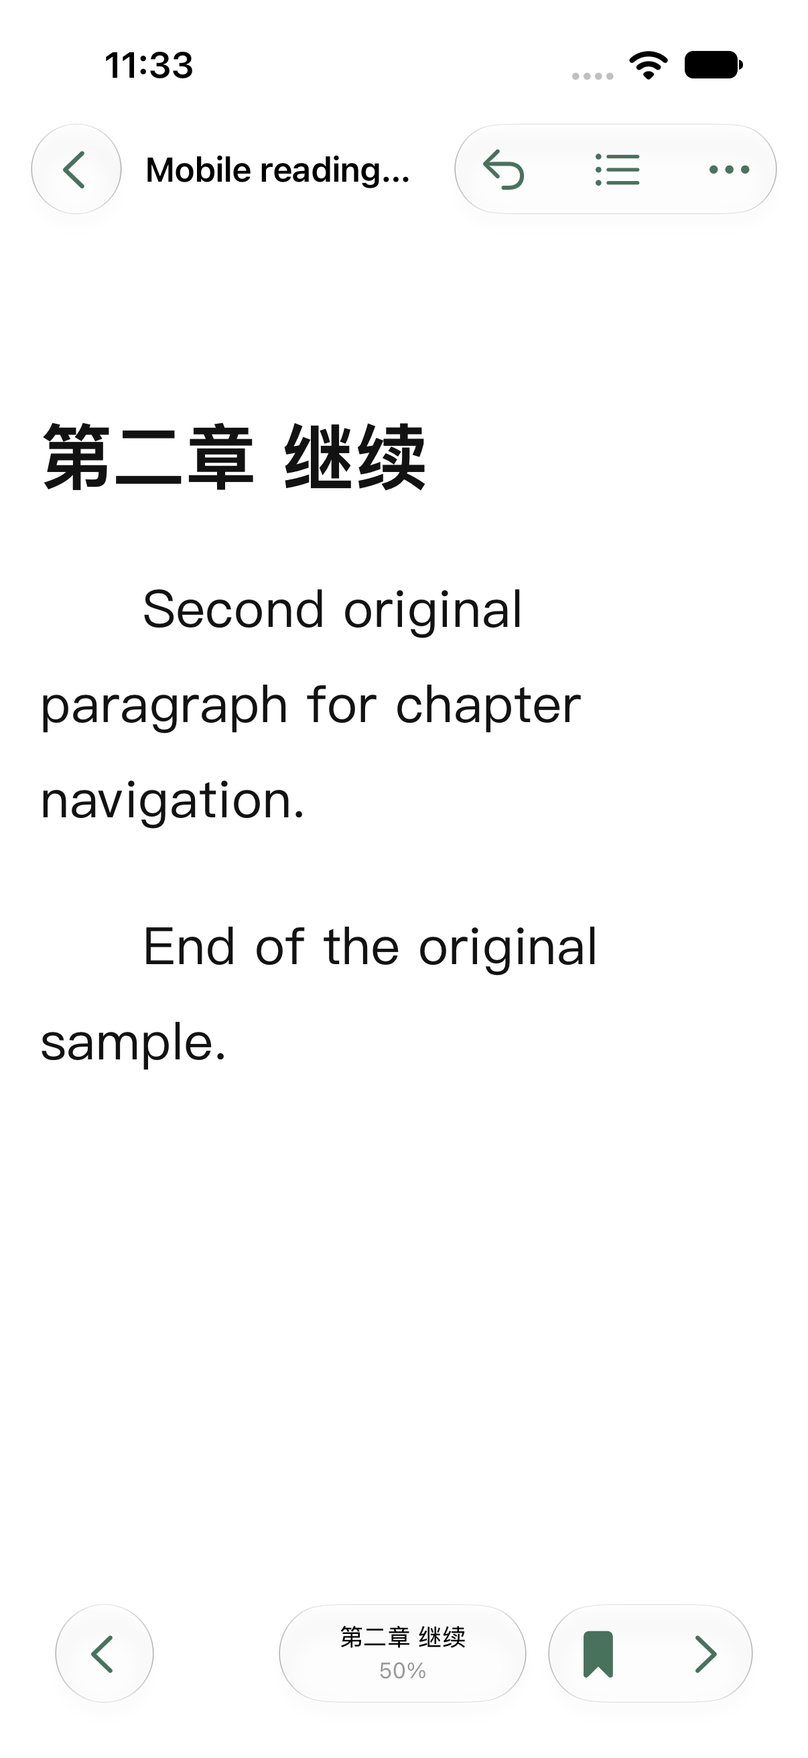
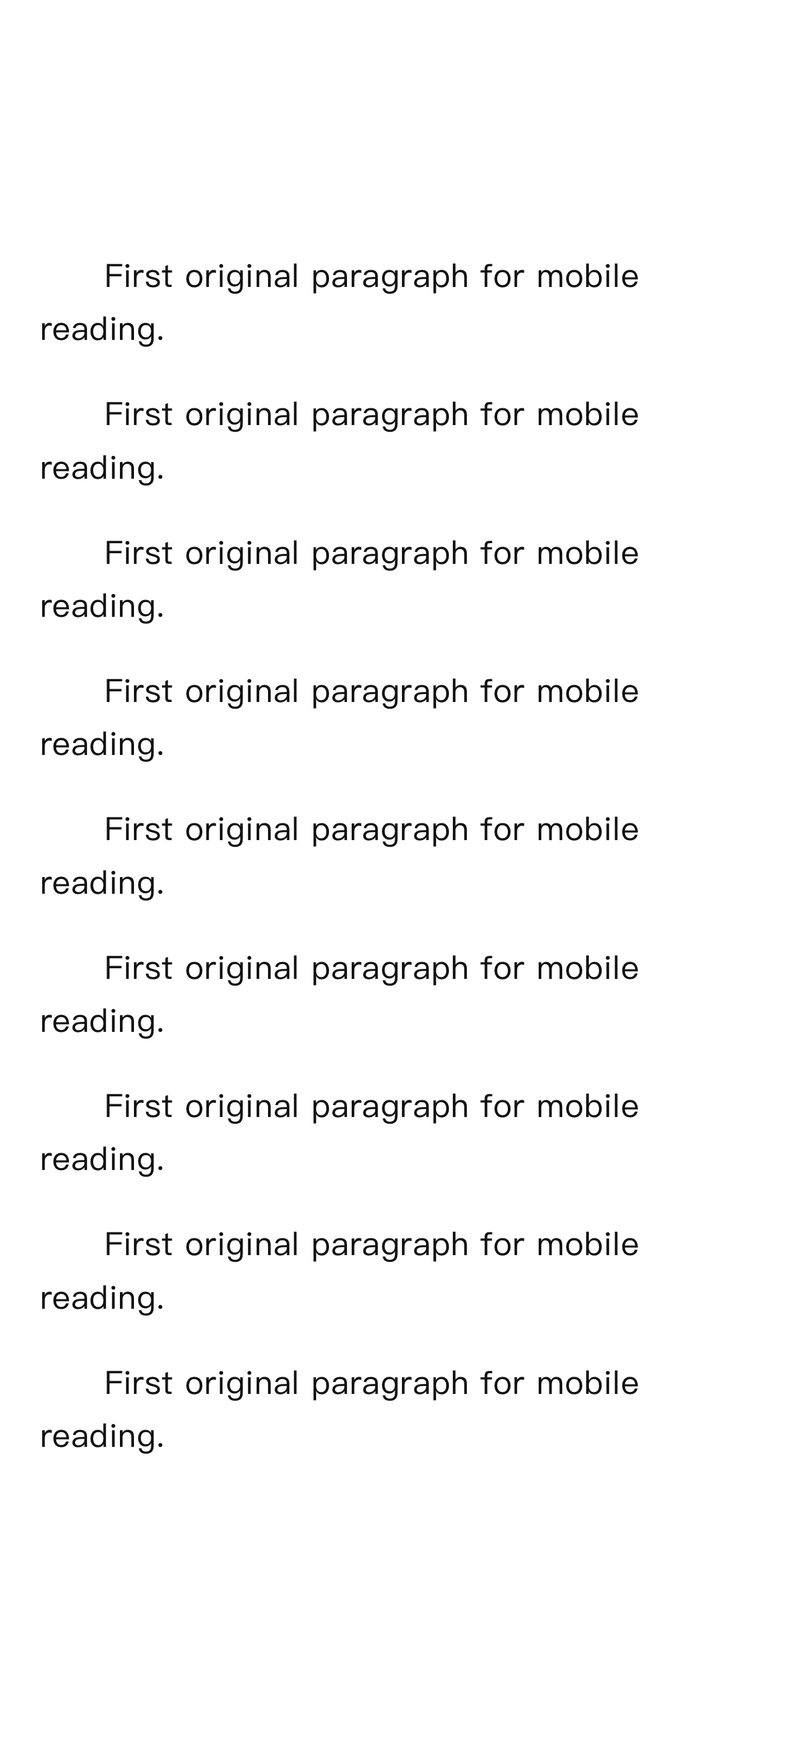
Improve iPhone immersive reading, appearance controls and chapter navigation

diff --git a/ios/PageBetween/App/ReaderScreen.swift b/ios/PageBetween/App/ReaderScreen.swift
@@ -27,7 +27,9 @@ struct AssistantSelection: Identifiable {
     @Published var scroll = false
     @Published var theme = "paper"
     @Published var history: [Locator] = []
-    @Published var chromeVisible = true
+    @Published var chromeVisible = false
+    @Published var lineHeight = 1.85
+    @Published var pageMargins = 1.0
     @Published var bookmarked = false
     var navigator: Navigator?
     let store: LibraryStore
@@ -44,6 +46,8 @@ struct AssistantSelection: Identifiable {
         super.init()
         let defaults = UserDefaults.standard
         fontScale = defaults.object(forKey: "reading.fontScale") == nil ? 100 : min(200, max(70, defaults.double(forKey: "reading.fontScale")))
+        if let value = defaults.object(forKey: "reading.lineHeight") as? Double, value.isFinite { lineHeight = min(2.2, max(1.4, value)) }
+        if let value = defaults.object(forKey: "reading.pageMargins") as? Double, value.isFinite { pageMargins = min(2, max(0.5, value)) }
         fontFamily = defaults.string(forKey: "reading.fontFamily") ?? ""
         theme = defaults.string(forKey: "reading.theme") ?? "paper"
         let key = book.format == "pdf" ? "reading.pdfScroll" : "reading.textScroll"
@@ -100,10 +104,11 @@ struct AssistantSelection: Identifiable {
     }
     private var hasContentSelection: Bool { (navigator as? SelectableNavigator)?.currentSelection != nil || (navigator as? MobilePDFNavigator)?.hasSelection == true }
     private func preferences() -> EPUBPreferences {
-        EPUBPreferences(columnCount: .one, fontFamily: fontFamily.isEmpty ? nil : FontFamily(rawValue: fontFamily), fontSize: fontScale / 100, lineHeight: 1.85, pageMargins: 1.0, publisherStyles: fontFamily.isEmpty, scroll: scroll, theme: theme == "night" ? .dark : theme == "sepia" ? .sepia : .light)
+        EPUBPreferences(columnCount: .one, fontFamily: fontFamily.isEmpty ? nil : FontFamily(rawValue: fontFamily), fontSize: fontScale / 100, lineHeight: lineHeight, pageMargins: pageMargins, publisherStyles: fontFamily.isEmpty && lineHeight == 1.85 && pageMargins == 1, scroll: scroll, theme: theme == "night" ? .dark : theme == "sepia" ? .sepia : .light)
     }
     func apply() {
         let defaults = UserDefaults.standard
+        defaults.set(lineHeight, forKey: "reading.lineHeight"); defaults.set(pageMargins, forKey: "reading.pageMargins")
         defaults.set(fontScale, forKey: "reading.fontScale"); defaults.set(fontFamily, forKey: "reading.fontFamily"); defaults.set(theme, forKey: "reading.theme"); defaults.set(scroll, forKey: book.format == "pdf" ? "reading.pdfScroll" : "reading.textScroll")
         (navigator as? EPUBNavigatorViewController)?.submitPreferences(preferences())
         (navigator as? MobilePDFNavigator)?.applyScroll(scroll)
@@ -262,6 +267,7 @@ struct ReaderScreen: View {
     @State private var toc = false
     @State private var appearance = false
     @State private var bookmarkTab = false
+    @State private var chapterQuery = ""
     @State private var conversations = false
     @State private var processing = false
     init(book: MobileBook, store: LibraryStore) { _reader = StateObject(wrappedValue: MobileReader(book: book, store: store)) }
@@ -273,15 +279,14 @@ struct ReaderScreen: View {
                 else { ProgressView("正在打开书籍…") }
             }
             .navigationTitle(reader.book.title).navigationBarTitleDisplayMode(.inline)
-            .toolbar(reader.chromeVisible ? .visible : .hidden, for: .navigationBar, .bottomBar)
-            .statusBarHidden(!reader.chromeVisible)
+            .toolbar(reader.chromeVisible || reader.controller == nil || reader.failure != nil ? .visible : .hidden, for: .navigationBar, .bottomBar)
+            .statusBarHidden(!reader.chromeVisible && reader.controller != nil && reader.failure == nil)
             .toolbar {
                 ToolbarItem(placement: .topBarLeading) { Button("书库", systemImage: "chevron.left") { Task { await reader.flush(); dismiss() } } }
                 ToolbarItemGroup(placement: .topBarTrailing) {
                     if !reader.history.isEmpty { Button("返回原位置", systemImage: "arrow.uturn.backward") { Task { await reader.back() } } }
                     Button("目录", systemImage: "list.bullet") { toc = true }
                     Menu {
-                        Button("阅读设置", systemImage: "textformat.size") { appearance = true }
                         Button("答疑记录", systemImage: "text.bubble") { conversations = true }
                         if reader.book.format == "pdf" { Button("文档处理", systemImage: "doc.badge.gearshape") { processing = true } }
                         if let recent = reader.lastSelection {
@@ -293,22 +298,15 @@ struct ReaderScreen: View {
                 ToolbarItemGroup(placement: .bottomBar) {
                     Button("上一页", systemImage: "chevron.left") { Task { _ = await reader.navigator?.goBackward(options: .animated) } }
                     Spacer()
-                    VStack(spacing: 3) { Text(reader.chapter).lineLimit(1).font(.caption); Text("\(Int(reader.progress * 100))%").font(.caption2.monospacedDigit()).foregroundStyle(.secondary) }.frame(width: 112)
+                    VStack(spacing: 3) { Text(reader.chapter).lineLimit(1).font(.caption); Text("\(Int(reader.progress * 100))%").font(.caption2.monospacedDigit()).foregroundStyle(.secondary) }.frame(width: 112).accessibilityElement(children: .combine).accessibilityIdentifier("reader.position")
                     Spacer()
                     Button("书签", systemImage: reader.bookmarked ? "bookmark.fill" : "bookmark") { Task { await reader.bookmark() } }.accessibilityIdentifier("reader.bookmark").accessibilityLabel(reader.bookmarked ? "移除书签" : "添加书签")
+                    Button("阅读设置", systemImage: "textformat.size") { appearance = true }.accessibilityIdentifier("reader.appearance")
                     Button("下一页", systemImage: "chevron.right") { Task { _ = await reader.navigator?.goForward(options: .animated) } }
                 }
             }
             .sheet(isPresented: $toc) { navigationSheet }
-            .sheet(isPresented: $appearance) { NavigationStack { Form {
-                Toggle("连续滚动", isOn: $reader.scroll).onChange(of: reader.scroll) { reader.apply() }
-                if reader.book.format != "pdf" {
-                    Picker("字体", selection: $reader.fontFamily) { Text("原书").tag(""); Text("宋体").tag("Songti SC"); Text("苹方").tag("PingFang SC"); Text("Georgia").tag("Georgia") }.onChange(of: reader.fontFamily) { reader.apply() }
-                    LabeledContent("字号", value: "\(Int(reader.fontScale))%")
-                    Slider(value: $reader.fontScale, in: 70...200, step: 10).onChange(of: reader.fontScale) { reader.apply() }
-                    Picker("纸张", selection: $reader.theme) { Text("纸白").tag("paper"); Text("暖纸").tag("sepia"); Text("夜间").tag("night") }.onChange(of: reader.theme) { reader.apply() }
-                }
-            }.navigationTitle("阅读设置").navigationBarTitleDisplayMode(.inline).toolbar { Button("完成") { appearance = false } } }.presentationDetents([.medium]) }
+            .sheet(isPresented: $appearance) { appearanceSheet }
             .sheet(item: $reader.selection) { selection in AssistantScreen(selection: selection, title: reader.book.title, repository: reader.store.repository, openSource: { raw in Task { await reader.goSource(raw) } }) }
             .sheet(isPresented: $conversations) { ConversationHistoryScreen(book: reader.book, repository: reader.store.repository, openSource: { raw in conversations = false; Task { await reader.goSource(raw) } }) }
             .sheet(isPresented: $processing) { DocumentPreparationScreen(book: reader.book, store: reader.store) }
@@ -316,6 +314,35 @@ struct ReaderScreen: View {
             .onChange(of: phase) { if phase != .active { reader.store.preparation.pauseAll(); Task { await reader.flush() } } }
             .alert("操作未完成", isPresented: Binding(get: { reader.failure != nil && reader.controller != nil }, set: { if !$0 { reader.failure = nil } })) { Button("好") { reader.failure = nil } } message: { Text(reader.failure ?? "") }
         }.tint(MobilePalette.accent).preferredColorScheme(reader.theme == "night" ? .dark : .light)
+    }
+    private func appearanceSlider(_ title: String, value: Binding<Double>, range: ClosedRange<Double>, step: Double, display: String) -> some View {
+        HStack(spacing: 12) {
+            Text(title).frame(width: 52, alignment: .leading)
+            Slider(value: value, in: range, step: step).accessibilityLabel(title).onChange(of: value.wrappedValue) { reader.apply() }
+            Text(display).font(.caption.monospacedDigit()).foregroundStyle(.secondary).frame(width: 44, alignment: .trailing)
+        }
+    }
+    private var appearanceSheet: some View {
+        NavigationStack {
+            Form {
+                Section {
+                    Picker("浏览方式", selection: $reader.scroll) { Text("左右翻页").tag(false); Text("连续滚动").tag(true) }.pickerStyle(.segmented).onChange(of: reader.scroll) { reader.apply() }
+                }
+                if reader.book.format != "pdf" {
+                    Section {
+                        appearanceSlider("字号", value: $reader.fontScale, range: 70...200, step: 10, display: "\(Int(reader.fontScale))%")
+                        Picker("字体", selection: $reader.fontFamily) { Text("原书").tag(""); Text("宋体").tag("Songti SC"); Text("苹方").tag("PingFang SC"); Text("Georgia").tag("Georgia") }.onChange(of: reader.fontFamily) { reader.apply() }
+                        appearanceSlider("行距", value: $reader.lineHeight, range: 1.4...2.2, step: 0.05, display: String(format: "%.2f", reader.lineHeight))
+                        appearanceSlider("页边距", value: $reader.pageMargins, range: 0.5...2, step: 0.1, display: String(format: "%.1f", reader.pageMargins))
+                    }
+                    Section {
+                        Picker("纸张", selection: $reader.theme) { Text("纸白").tag("paper"); Text("暖纸").tag("sepia"); Text("夜间").tag("night") }.pickerStyle(.segmented).onChange(of: reader.theme) { reader.apply() }
+                    }
+                }
+            }
+            .navigationTitle("阅读设置").navigationBarTitleDisplayMode(.inline)
+            .toolbar { Button("完成") { appearance = false } }
+        }.presentationDetents([.height(440), .large]).presentationDragIndicator(.visible)
     }
     private var navigationSheet: some View {
         NavigationStack {
@@ -327,24 +354,25 @@ struct ReaderScreen: View {
                 if bookmarkTab { bookmarkRows }
                 else { chapterRows }
             }
-            .navigationBarTitleDisplayMode(.inline)
+            .searchable(text: $chapterQuery, prompt: "查找章节")
+            .navigationTitle(reader.book.title).navigationBarTitleDisplayMode(.inline)
             .toolbar { Button("完成") { toc = false } }
         }
     }
     private var bookmarkRows: some View {
         let marks: [ReadingBookmark] = reader.store.books.first(where: { $0.id == reader.book.id })?.bookmarks ?? []
-        return ForEach(marks) { mark in
+        return ForEach(marks.filter { chapterQuery.isEmpty || $0.title.localizedCaseInsensitiveContains(chapterQuery) }) { mark in
             Button(action: { openBookmark(mark) }) { Text(mark.title) }
         }
     }
     private var chapterRows: some View {
-        let entries = flatten(reader.contents)
+        let entries = flatten(reader.contents).filter { chapterQuery.isEmpty || ($0.link.title ?? "").localizedCaseInsensitiveContains(chapterQuery) }
         return ForEach(entries.indices, id: \.self) { index in
             let item = entries[index]
             Button {
                 Task { await reader.go(item.link); toc = false }
             } label: {
-                Text(item.link.title ?? "章节").padding(.leading, CGFloat(item.depth * 16)).foregroundStyle(.primary)
+                Text(item.link.title ?? "章节").padding(.leading, CGFloat(item.depth * 16)).foregroundStyle(reader.chapter == item.link.title ? MobilePalette.accent : Color.primary).fontWeight(reader.chapter == item.link.title ? .semibold : .regular)
             }
         }
     }

diff --git a/ios/Tests/UI/ReadingFlowTests.swift b/ios/Tests/UI/ReadingFlowTests.swift
@@ -2,6 +2,35 @@ import XCTest
 
 final class ReadingFlowTests: XCTestCase {
     override func setUpWithError() throws { continueAfterFailure = false }
+    @MainActor func testImmersiveSwipeAppearanceAndChapterSearch() throws {
+        let app = XCUIApplication()
+        app.launchEnvironment["PAGE_BETWEEN_UI_TEST"] = "1"
+        app.launchArguments = ["-AppleLanguages", "(zh-Hans)", "-AppleLocale", "zh_CN", "-reading.fontScale", "100", "-reading.textScroll", "NO"]
+        app.launch()
+        let book = app.buttons.matching(NSPredicate(format: "label CONTAINS %@", "Mobile reading sample")).firstMatch
+        XCTAssertTrue(book.waitForExistence(timeout: 30)); openBook(book, in: app)
+        app.buttons["目录"].tap()
+        let search = app.searchFields.matching(NSPredicate(format: "placeholderValue == %@", "查找章节")).firstMatch
+        XCTAssertTrue(search.waitForExistence(timeout: 10)); search.tap(); search.typeText("开始")
+        XCTAssertTrue(app.buttons["第一章 开始"].exists); XCTAssertFalse(app.buttons["第二章 继续"].exists)
+        capture(app, "chapter-search"); app.buttons["第一章 开始"].tap()
+        let position = app.descendants(matching: .any).matching(identifier: "reader.position").firstMatch
+        XCTAssertTrue(position.waitForExistence(timeout: 10)); let before = position.label
+        app.coordinate(withNormalizedOffset: CGVector(dx: 0.5, dy: 0.5)).tap()
+        let hidden = XCTNSPredicateExpectation(predicate: NSPredicate(format: "exists == false"), object: app.buttons["目录"])
+        XCTAssertEqual(XCTWaiter.wait(for: [hidden], timeout: 5), .completed)
+        app.webViews.firstMatch.swipeLeft()
+        capture(app, "swiped-immersive-page")
+        app.coordinate(withNormalizedOffset: CGVector(dx: 0.5, dy: 0.5)).tap()
+        XCTAssertTrue(app.buttons["目录"].waitForExistence(timeout: 10))
+        XCTAssertNotEqual(position.label, before, "A horizontal swipe must advance reading progress")
+        app.buttons["reader.appearance"].tap()
+        XCTAssertTrue(app.sliders["行距"].waitForExistence(timeout: 5))
+        app.sliders["行距"].adjust(toNormalizedSliderPosition: 0.4)
+        capture(app, "reading-bottom-sheet")
+        app.buttons["完成"].tap()
+        XCTAssertTrue(app.buttons["目录"].waitForExistence(timeout: 5))
+    }
     @MainActor func testImportOptionsAndIllustratedFB2() throws {
         let app = XCUIApplication()
         app.launchEnvironment["PAGE_BETWEEN_IMPORT_UI_TEST"] = "1"
@@ -179,8 +208,7 @@ final class ReadingFlowTests: XCTestCase {
         app.segmentedControls.buttons["书签"].tap()
         XCTAssertTrue(app.buttons["第二章 继续"].waitForExistence(timeout: 5), app.debugDescription)
         app.buttons["完成"].tap()
-        app.buttons["reader.more"].tap()
-        app.buttons["阅读设置"].tap()
+        app.buttons["reader.appearance"].tap()
         app.sliders.firstMatch.adjust(toNormalizedSliderPosition: 0.6)
         app.buttons["完成"].tap()
         assertReadable(paragraph, in: app)
@@ -190,7 +218,9 @@ final class ReadingFlowTests: XCTestCase {
         ask.tap()
         XCTAssertTrue(app.navigationBars["书内答疑"].waitForExistence(timeout: 5), app.debugDescription)
         let quote = app.webViews["markdown.preview"].staticTexts.firstMatch
-        XCTAssertTrue(quote.waitForExistence(timeout: 8), "Selected text preview did not render")
+        let quoteRendered = quote.waitForExistence(timeout: 8)
+        capture(app, "selection-preview-result")
+        XCTAssertTrue(quoteRendered, "Selected text preview did not render: " + app.debugDescription)
         XCTAssertTrue(quote.isHittable)
         capture(app, "selected-source")
         app.buttons["完成"].tap()
@@ -206,6 +236,14 @@ final class ReadingFlowTests: XCTestCase {
             else { app.scrollViews.firstMatch.swipeDown() }
         }
         book.tap()
+        let content = app.descendants(matching: .any).matching(identifier: "reader.pdf").firstMatch
+        if !app.webViews.firstMatch.waitForExistence(timeout: 3) { XCTAssertTrue(content.waitForExistence(timeout: 20)) }
+        if !content.exists { XCTAssertTrue(app.webViews.staticTexts.firstMatch.waitForExistence(timeout: 30), "Reader content has not loaded") }
+        XCTAssertFalse(app.buttons["目录"].isHittable, "A book should open without toolbars")
+        capture(app, "immersive-reader")
+        if content.exists { content.coordinate(withNormalizedOffset: CGVector(dx: 0.98, dy: 0.9)).tap() }
+        else { app.coordinate(withNormalizedOffset: CGVector(dx: 0.5, dy: 0.5)).tap() }
+        XCTAssertTrue(app.buttons["目录"].waitForExistence(timeout: 10), app.debugDescription)
     }
     @MainActor private func assertReadable(_ paragraph: XCUIElement, in app: XCUIApplication) {
         XCTAssertTrue(paragraph.isHittable, "Paragraph is outside the visible page")

diff --git a/ios/README.md b/ios/README.md
@@ -12,6 +12,7 @@
 
 - 书库、原书封面、搜索、常读、文件导入、最近删除和恢复；相同文件按内容去重。
 - EPUB 原书目录和插图；TXT 自动分章、编码检测与长篇拆分；PDF 原页阅读。
+- 默认沉浸阅读，点按呼出工具；文字书左右滑动翻页。底部设置面板可调整字号、字体、行距、页边距与主题，目录支持章节查找。
 - FB2 本地转换，保留作者、章节层级、插图、表格与书内链接。
 - 导入时逐本选择文档解析；PDF、TXT 默认开启，TXT 关闭时保留全文、不识别章节。
 - 扫描 PDF 本机 OCR、附近页提前准备、长期保存与整本暂停续作；已导入 PDF 可从“文档处理”操作。
@@ -23,7 +24,7 @@
 - Markdown 和 LaTeX 显示，复制保留源码；服务密钥使用本机钥匙串，翻译不自动保存。
 - 答疑流式显示，支持停止与重新生成；按书保存选段、出处与连续对话，可回看并返回原文，关闭弹窗后可再次打开最近选段。
 
-阅读时左右滑动或使用底栏翻页，点按正文收起工具栏；长按选择文字后可复制、提问或翻译。AI 服务可从书库设置或答疑窗口左上角配置。
+阅读时左右滑动翻页，点按正文呼出／收起工具栏；底栏可打开阅读设置。长按选择文字后可复制、提问或翻译。AI 服务可从书库设置或答疑窗口左上角配置。
 
 完整书内知识检索、其他电子书格式、备份导出和找书等仍在移植。复杂原书与真实云服务继续验收，进度见 [完整清单](PORTING.md)。
 

diff --git a/docs/REVIEW_DIALOGUE.md b/docs/REVIEW_DIALOGUE.md
@@ -6,7 +6,7 @@
 
 已阅读本地产品评估，优先采纳已复现的目录遮挡、PDF 缩放不一致、格式下载前校验，以及书库首屏层级建议。宽窗口目录参与布局，窄窗口默认收起，设置打开时收起目录；保留默认宽屏章节导航与阅读锚点。缩放显示随实际绘制更新。书源由统一导入格式表决定可用性，后端在申请下载前读取版本元数据并拒绝不支持的格式。
 
-手机参考图的四份附件画面相同，未包含展开后的设置和目录，不能声称已逐项复刻这些状态。此次在 macOS 普通版与掌上／窄屏网页吸收点按呼出工具、滑动翻页原则，保护选区和长按；iPhone 原生界面尚未在本轮改造。保留绿色品牌、PDF 专业能力与各类阅读记录，未引入广告、运营奖励、社交或新的笔记工作台。后续仍应区分原生手机与桌面 WebKit 验收。
+手机参考图的四份附件画面相同，未包含展开后的设置和目录，不能声称已逐项复刻这些状态。此次在 macOS 普通版与掌上／窄屏网页吸收点按呼出工具、滑动翻页原则，保护选区和长按；用户随后明确两端一起改善，续作加入 iPhone 原生沉浸阅读、底部设置与目录查找。保留绿色品牌、PDF 专业能力与各类阅读记录，未引入广告、运营奖励、社交或新的笔记工作台。后续仍应区分原生手机与桌面 WebKit 验收。
 
 ## 2026-11-03 · macOS 文件夹与找书信息（前端 2.53）
 

diff --git a/ios/PORTING.md b/ios/PORTING.md
@@ -11,7 +11,7 @@
 | 扫描 PDF 本机 OCR 与提前准备、长期保存 | 已实现，匿名原生验收通过，复杂原书待验收 | 图片页可划词，前后翻页及重启复用 |
 | MinerU 整本分批、页段、补全及校验 | 已接入；301 页中断恢复通过受控服务验收，真实云端待验收 | 页数和体积拆批、任务恢复、原页映射、配置 UI |
 | PDF 公式／图表完整对象与原图 | 已实现；原创对象原生验收通过，复杂原书继续验收 | 完整对象、原始内容不改写、坏公式原图回退 |
-| PDF / 文字缩放、字体、行距、版心、主题 | 部分实现 | 原生设置与阅读锚点，系统字号与旋转 |
+| PDF / 文字缩放、字体、行距、版心、主题 | 文字字号、字体、行距、页边距与主题已接入；PDF 比例控件仍待完善 | 原生设置与阅读锚点，系统字号与旋转 |
 | 目录、书签、历史返回、跳页、书内搜索 | 部分实现 | 同书不同格式、任意位置跳转后不弹回 |
 | TXT 手动分章、合并和改名 | 待移植 | 原件不变、章节和进度映射 |
 | 选段复制／翻译／提问及再次打开 | 基础已实现 | 原生长按、原始公式复制、来源定位 |

diff --git a/ios/QA.md b/ios/QA.md
@@ -4,6 +4,8 @@
 
 ## 已完成的本地检查
 
+2026-11-04：原生流程检查默认沉浸、正文点按呼出／隐藏工具、章节查找、真实横向滑动后进度变化、底部设置展开与行距调整，并核对最终截图。回归检查覆盖答疑、FB2、书签与恢复、扫描 PDF 和公式对象；首轮选段预览曾未及时出现，保留原断言及诊断，相关重跑通过。测试现等待正文加载完成后才检查沉浸状态；PDF 唤出工具时点击空白，避免误触公式对象。真机尚未验收。
+
 - 生产 SwiftUI、Readium 和服务代码在 iPhone arm64 SDK 下编译并链接。
 - Swift 核心测试：文件去重、重启恢复、删除恢复、路径边界、损坏目录保护、对话出处及对象元数据、分章、长篇 Unicode、编码与 XML 控制字符、公式恢复、选段映射、长选段拆分和请求边界。
 - 生产 TXT → EPUB 写入器重复转换、ZIP 结构与 XHTML XML 检查；EPUBCheck 5.4.0 无错误、无警告。

diff --git a/QA.md b/QA.md
@@ -2,7 +2,7 @@
 
 ## 2026-11-04 · 阅读体验（前端 2.54）
 
-WebKit 在 1024／1280／1600 × 720 下检查 TXT、EPUB 与 PDF：宽屏目录为阅读视口预留空间，窄屏默认收起；PDF 设置与底栏缩放一致。1280×720 首排书名可见。窄屏点按收放工具通过；书源单元检查确认 DjVu 在发起 download 之前被拒绝。参考附件四图相同，未覆盖其设置与目录状态；本轮尚未修改 iPhone 原生界面。
+WebKit 在 1024／1280／1600 × 720 下检查 TXT、EPUB 与 PDF：宽屏目录为阅读视口预留空间，窄屏默认收起；PDF 设置与底栏缩放一致。1280×720 首排书名可见。窄屏点按收放工具通过；书源单元检查确认 DjVu 在发起 download 之前被拒绝。参考附件四图相同，未覆盖其设置与目录状态；iPhone 原生续作与验收见 ios/QA.md。
 
 ## 2026-11-03 · 文件夹与找书（前端 2.53）
 

diff --git a/docs/CHANGELOG.md b/docs/CHANGELOG.md
@@ -6,6 +6,10 @@
 
 手机端尚未发布安装包，完整移植进度见 [功能清单](../ios/PORTING.md)。
 
+- 阅读默认隐藏工具栏，点按正文呼出；保留原生左右滑动翻页。
+- 阅读设置移至底部快捷入口，提供可展开面板、字号、字体、行距、页边距与主题。
+- 目录增加章节查找与当前章节强调。
+
 - 导入前可逐本调整文档解析开关，PDF／TXT 默认开启，重复导入保留已有设置。
 - 新增 FB2 本地转换阅读，保留作者、章节层级、插图、表格与书内链接。
 - 扫描 PDF 本机 OCR、提前准备与长期保存；MinerU 分批解析和中断续作。
